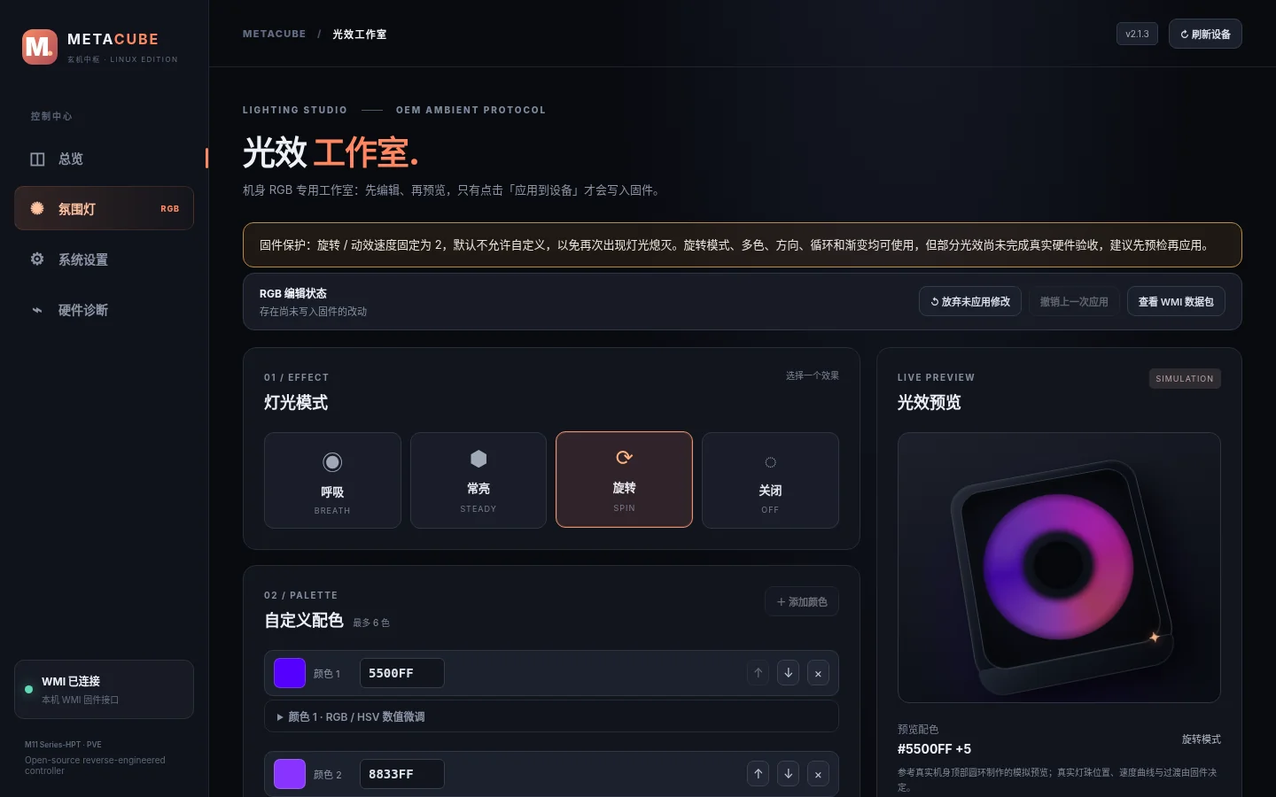
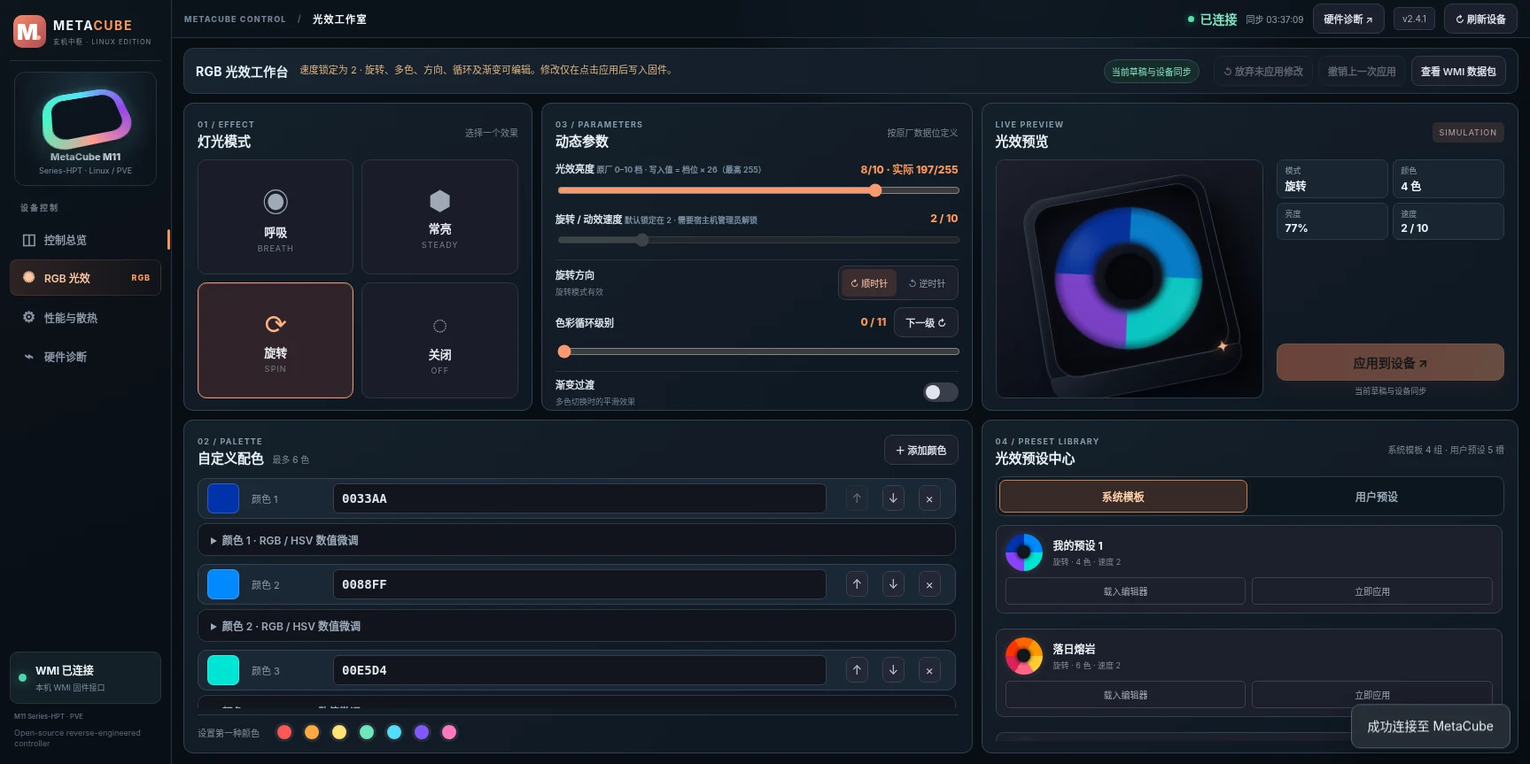
feat(web): rebuild RGB lighting as full-height modular workbench (v2.4.3)

diff --git a/web/index.html b/web/index.html
@@ -20,7 +20,7 @@
 </aside>
 <main class="content">
   <header class="topbar"><div class="crumb"><span>METACUBE CONTROL</span><span class="crumb-slash">/</span><span id="pageBreadcrumb">设备总览</span></div>
-  <div class="top-actions"><span class="live-tag top-live-status"><i></i><span id="dashConnection">等待连接</span></span><span class="console-timestamp top-sync-time" id="dashUpdated">尚未同步</span><button class="outline-button small" data-go="diagnostics">硬件诊断 ↗</button><span class="version-chip" id="versionChip">v2.4.2</span><button class="outline-button small" id="refreshButton">↻ 刷新设备</button></div></header>
+  <div class="top-actions"><span class="live-tag top-live-status"><i></i><span id="dashConnection">等待连接</span></span><span class="console-timestamp top-sync-time" id="dashUpdated">尚未同步</span><button class="outline-button small" data-go="diagnostics">硬件诊断 ↗</button><span class="version-chip" id="versionChip">v2.4.3</span><button class="outline-button small" id="refreshButton">↻ 刷新设备</button></div></header>
   <div class="page-container">
   <section id="view-dashboard" class="view active console-view">
     <div class="console-kpi-grid" aria-label="设备实时摘要">
@@ -82,46 +82,33 @@
       </div>
     </div>
   </section>
-  <section id="view-lighting" class="view">
-    <div id="rgbSafetyNotice" class="rgb-safety-notice" role="status" hidden>固件保护：旋转 / 动效速度固定为 2，默认不允许自定义，以免再次出现灯光熄灭。旋转模式、多色、方向、循环和渐变均可使用，但部分光效尚未完成真实硬件验收，建议先预检再应用。</div>
-    <div class="rgb-actions"><div><strong>RGB 编辑状态</strong><span id="draftStateLabel">当前配置已同步</span></div><div class="rgb-action-buttons"><button class="outline-button small" id="discardDraftButton">↺ 放弃未应用修改</button><button class="outline-button small" id="undoLightingButton" disabled>撤销上一次应用</button><button class="outline-button small" id="inspectPacketButton">查看 WMI 数据包</button></div></div>
-    <div class="light-layout"><div class="light-main">
-      <article class="card effect-card"><div class="card-heading"><div><span class="tiny-label">01 / EFFECT</span><h3>灯光模式</h3></div><span class="hint">选择一个效果</span></div>
-        <div class="mode-grid"><button class="mode-tile" data-mode="breath"><span class="mode-glyph">◉</span><b>呼吸</b><small>BREATH</small></button><button class="mode-tile" data-mode="steady"><span class="mode-glyph">⬢</span><b>常亮</b><small>STEADY</small></button><button class="mode-tile" data-mode="spin"><span class="mode-glyph">⟳</span><b>旋转</b><small>SPIN</small></button><button class="mode-tile" data-mode="off"><span class="mode-glyph">◌</span><b>关闭</b><small>OFF</small></button></div>
-      </article>
-      <article class="card color-card"><div class="card-heading"><div><span class="tiny-label">02 / PALETTE</span><h3>自定义配色 <span class="light-detail">最多 6 色</span></h3></div><button id="addColorButton" class="outline-button small">＋ 添加颜色</button></div><div id="colorEditor" class="color-editor"></div>
-        <div class="color-presets"><span>设置第一种颜色</span><button data-quick-color="FF5656" aria-label="红色"></button><button data-quick-color="FFA940" aria-label="橙色"></button><button data-quick-color="FFE274" aria-label="黄色"></button><button data-quick-color="6CE8BA" aria-label="绿色"></button><button data-quick-color="50DCFA" aria-label="青蓝色"></button><button data-quick-color="8057FF" aria-label="紫色"></button><button data-quick-color="FF78C2" aria-label="粉色"></button></div></article>
-      <article class="card parameters-card"><div class="card-heading"><div><span class="tiny-label">03 / PARAMETERS</span><h3>动态参数</h3></div><span class="hint">按原厂数据位定义</span></div>
-        <div class="control-group"><div class="control-line"><label for="brightnessInput">光效亮度 <small>原厂 0–10 档 · 写入值 = 档位 × 26（最高 255）</small></label><output id="brightnessValue">7 / 10</output></div><input id="brightnessInput" type="range" min="0" max="10" step="1" value="7"/></div>
-        <div class="control-group"><div class="control-line"><label for="speedInput">旋转 / 动效速度 <small>默认锁定在 2 · 需要宿主机管理员解锁</small></label><output id="speedValue">2</output></div><input id="speedInput" type="range" min="0" max="10" step="1" value="2" disabled aria-describedby="rgbSafetyNotice"/></div>
-        <div class="control-options"><div><strong>旋转方向</strong><small>旋转模式有效</small></div><div class="segmented"><button data-direction="0">↻ 顺时针</button><button data-direction="1">↺ 逆时针</button></div></div>
-        <div class="control-group"><div class="control-line"><label for="cycleInput">色彩循环级别</label><div class="cycle-action"><output id="cycleValue">0 / 11</output><button class="outline-button small" id="nextCycleButton">下一级 ↻</button></div></div><input id="cycleInput" type="range" min="0" max="11" step="1" value="0"/></div>
-        <div class="control-options last"><div><strong>渐变过渡</strong><small>多色切换时的平滑效果</small></div><label class="switch"><input type="checkbox" id="transitionInput"/><span class="switch-track"></span></label></div>
-      </article>
-    </div><div class="light-sidebar">
-      <article class="card preview-card"><div class="card-heading"><div><span class="tiny-label">LIVE PREVIEW</span><h3>光效预览</h3></div><span class="preview-pill">SIMULATION</span></div>
-        <div class="compact-preview-layout"><div class="preview-stage" id="previewStage" data-mode="breath">
-          <div class="preview-ellipse e1"></div><div class="preview-ellipse e2"></div>
-          <div class="preview-device" aria-label="MetaCube 顶部 RGB 圆环，效果仅供模拟">
-            <div class="preview-device-top">
-              <div class="preview-ring-assembly" id="previewRing" role="img" aria-label="RGB 圆环">
-                <div class="preview-ring-motion" id="previewRingMotion">
-                  <div class="preview-ring-haze"></div>
-                  <div class="preview-ring-band"></div>
-                  <div class="preview-ring-shimmer"></div>
-                </div>
-                <div class="preview-ring-hole"></div>
-              </div>
-            </div>
-            <span class="preview-device-mark">✦</span>
-          </div>
-        </div>
-        <div class="preview-commands"><div class="preview-bottom"><div><small>预览配色</small><strong id="previewColorText">#50DCFA</strong></div><span id="previewModeText">呼吸模式</span></div><p class="simulation-note">参考真实机身顶部圆环制作的模拟预览；真实灯珠位置、速度曲线与过渡由固件决定。</p><button class="primary-button full" id="applyLightingButton">应用到设备 ↗</button><p id="unsavedHint" class="unsaved">修改不会自动写入主板固件</p></div></div></article>
-      <article class="card preset-card system-presets-card"><div class="card-heading"><div><span class="tiny-label">04 / SYSTEM TEMPLATES</span><h3>系统光效模板</h3></div><span class="hint">内置 · 只读</span></div><div id="systemTemplateList" class="preset-list"><span class="secondary-note">正在载入系统模板...</span></div><p class="secondary-note">内置 4 套配色，来源于你提供的原始 JSON。可预览、载入编辑器或直接应用；不会占用和覆盖用户预设槽位。</p></article>
-      <article class="card preset-card"><div class="card-heading"><div><span class="tiny-label">05 / USER PRESETS</span><h3>用户自定义预设</h3></div><span class="hint">5 个槽位</span></div><div class="preset-toolbar"><button class="outline-button small" id="exportPresetsButton">导出 JSON</button><button class="outline-button small" id="importPresetsButton">导入 JSON</button><input type="file" id="importPresetsFile" accept="application/json,.json" hidden/></div><div id="presetList" class="preset-list"></div><p class="secondary-note">「保存草稿」不会操作硬件；「载入编辑器」只修改预览；「立即应用」才会直接写入主板。导入预设也不会写入硬件。</p></article>
-      <article class="card packet-card" id="packetCard" hidden><div class="card-heading"><div><span class="tiny-label">WMI 32-BYTE PACKET</span><h3>原厂数据包预检</h3></div><button class="outline-button small" id="closePacketButton">关闭</button></div><p class="secondary-note">仅生成预计的 SET 数据，不会发送到 EC。头部 00FB000F；保留未知保留区。</p><pre id="packetText" class="packet-data">请先编辑灯光配置</pre></article>
-    </div></div>
-  </section>
+  <section class="view" id="view-lighting"><div class="lighting-workbench-toolbar"><div class="lighting-toolbar-info"><strong class="lighting-toolbar-title">RGB 光效工作台</strong><div class="rgb-safety-notice workbench-protection" hidden="" id="rgbSafetyNotice" role="status" title="曾发生灯光停止输出、需完全断电恢复的情况。非基准速度默认锁定；高级效果尚需谨慎使用。">速度锁定为 2 · 旋转、多色、方向、循环及渐变可编辑。修改仅在点击应用后写入固件。</div><span class="lighting-draft-status" id="draftStateLabel">当前配置已同步</span></div><div class="rgb-actions workbench-actions"><div class="rgb-action-buttons"><button class="outline-button small" id="discardDraftButton">↺ 放弃未应用修改</button><button class="outline-button small" disabled="" id="undoLightingButton">撤销上一次应用</button><button class="outline-button small" id="inspectPacketButton">查看 WMI 数据包</button></div></div></div><div class="light-workbench-grid"><article class="card effect-card workbench-mode"><div class="card-heading"><div><span class="tiny-label">01 / EFFECT</span><h3>灯光模式</h3></div><span class="hint">选择一个效果</span></div>
+<div class="mode-grid"><button class="mode-tile" data-mode="breath"><span class="mode-glyph">◉</span><b>呼吸</b><small>BREATH</small></button><button class="mode-tile" data-mode="steady"><span class="mode-glyph">⬢</span><b>常亮</b><small>STEADY</small></button><button class="mode-tile" data-mode="spin"><span class="mode-glyph">⟳</span><b>旋转</b><small>SPIN</small></button><button class="mode-tile" data-mode="off"><span class="mode-glyph">◌</span><b>关闭</b><small>OFF</small></button></div>
+</article><article class="card parameters-card workbench-parameters"><div class="card-heading"><div><span class="tiny-label">03 / PARAMETERS</span><h3>动态参数</h3></div><span class="hint">按原厂数据位定义</span></div>
+<div class="control-group"><div class="control-line"><label for="brightnessInput">光效亮度 <small>原厂 0–10 档 · 写入值 = 档位 × 26（最高 255）</small></label><output id="brightnessValue">7 / 10</output></div><input id="brightnessInput" max="10" min="0" step="1" type="range" value="7"/></div>
+<div class="control-group"><div class="control-line"><label for="speedInput">旋转 / 动效速度 <small>默认锁定在 2 · 需要宿主机管理员解锁</small></label><output id="speedValue">2</output></div><input aria-describedby="rgbSafetyNotice" disabled="" id="speedInput" max="10" min="0" step="1" type="range" value="2"/></div>
+<div class="control-options"><div><strong>旋转方向</strong><small>旋转模式有效</small></div><div class="segmented"><button data-direction="0">↻ 顺时针</button><button data-direction="1">↺ 逆时针</button></div></div>
+<div class="control-group"><div class="control-line"><label for="cycleInput">色彩循环级别</label><div class="cycle-action"><output id="cycleValue">0 / 11</output><button class="outline-button small" id="nextCycleButton">下一级 ↻</button></div></div><input id="cycleInput" max="11" min="0" step="1" type="range" value="0"/></div>
+<div class="control-options last"><div><strong>渐变过渡</strong><small>多色切换时的平滑效果</small></div><label class="switch"><input id="transitionInput" type="checkbox"/><span class="switch-track"></span></label></div>
+</article><article class="card preview-card workbench-preview"><div class="card-heading"><div><span class="tiny-label">LIVE PREVIEW</span><h3>光效预览</h3></div><span class="preview-pill">SIMULATION</span></div>
+<div class="compact-preview-layout"><div class="preview-stage" data-mode="breath" id="previewStage">
+<div class="preview-ellipse e1"></div><div class="preview-ellipse e2"></div>
+<div aria-label="MetaCube 顶部 RGB 圆环，效果仅供模拟" class="preview-device">
+<div class="preview-device-top">
+<div aria-label="RGB 圆环" class="preview-ring-assembly" id="previewRing" role="img">
+<div class="preview-ring-motion" id="previewRingMotion">
+<div class="preview-ring-haze"></div>
+<div class="preview-ring-band"></div>
+<div class="preview-ring-shimmer"></div>
+</div>
+<div class="preview-ring-hole"></div>
+</div>
+</div>
+<span class="preview-device-mark">✦</span>
+</div>
+</div>
+<div class="preview-commands"><div class="preview-bottom"><div><small>预览配色</small><strong id="previewColorText">#50DCFA</strong></div><span id="previewModeText">呼吸模式</span></div><div aria-label="当前草稿参数" class="preview-parameter-summary"><div class="preview-parameter-cell"><small>模式</small><strong id="previewSummaryMode">—</strong></div><div class="preview-parameter-cell"><small>颜色</small><strong id="previewSummaryCount">—</strong></div><div class="preview-parameter-cell"><small>亮度</small><strong id="previewSummaryBrightness">—</strong></div><div class="preview-parameter-cell"><small>速度</small><strong id="previewSummarySpeed">—</strong></div></div><p class="simulation-note">参考真实机身顶部圆环制作的模拟预览；真实灯珠位置、速度曲线与过渡由固件决定。</p><button class="primary-button full" id="applyLightingButton">应用到设备 ↗</button><p class="unsaved" id="unsavedHint">修改不会自动写入主板固件</p></div></div></article><article class="card color-card workbench-palette"><div class="card-heading"><div><span class="tiny-label">02 / PALETTE</span><h3>自定义配色 <span class="light-detail">最多 6 色</span></h3></div><button class="outline-button small" id="addColorButton">＋ 添加颜色</button></div><div class="color-editor" id="colorEditor"></div>
+<div class="color-presets"><span>设置第一种颜色</span><button aria-label="红色" data-quick-color="FF5656"></button><button aria-label="橙色" data-quick-color="FFA940"></button><button aria-label="黄色" data-quick-color="FFE274"></button><button aria-label="绿色" data-quick-color="6CE8BA"></button><button aria-label="青蓝色" data-quick-color="50DCFA"></button><button aria-label="紫色" data-quick-color="8057FF"></button><button aria-label="粉色" data-quick-color="FF78C2"></button></div></article><article class="card preset-hub-card"><div class="card-heading preset-hub-heading"><div><span class="tiny-label">04 / PRESET LIBRARY</span><h3>光效预设中心</h3></div><span class="hint">系统模板 4 组 · 用户预设 5 槽</span></div><div aria-label="光效预设类型" class="preset-hub-tabs" role="tablist"><button aria-controls="lighting-preset-system" aria-selected="true" class="preset-hub-tab active" data-lighting-presets="system" role="tab" type="button">系统模板</button><button aria-controls="lighting-preset-user" aria-selected="false" class="preset-hub-tab" data-lighting-presets="user" role="tab" type="button">用户预设</button></div><article class="card preset-card system-presets-card preset-hub-pane" id="lighting-preset-system" role="tabpanel"><div class="card-heading"><div><span class="tiny-label">04 / SYSTEM TEMPLATES</span><h3>系统光效模板</h3></div><span class="hint">内置 · 只读</span></div><div class="preset-list" id="systemTemplateList"><span class="secondary-note">正在载入系统模板...</span></div><p class="secondary-note preset-hub-description">内置 4 套配色，来源于你提供的原始 JSON。可预览、载入编辑器或直接应用；不会占用和覆盖用户预设槽位。</p></article><article class="card preset-card preset-hub-pane" hidden="" id="lighting-preset-user" role="tabpanel"><div class="card-heading"><div><span class="tiny-label">05 / USER PRESETS</span><h3>用户自定义预设</h3></div><span class="hint">5 个槽位</span></div><div class="preset-toolbar"><button class="outline-button small" id="exportPresetsButton">导出 JSON</button><button class="outline-button small" id="importPresetsButton">导入 JSON</button><input accept="application/json,.json" hidden="" id="importPresetsFile" type="file"/></div><div class="preset-list" id="presetList"></div><p class="secondary-note preset-hub-description">「保存草稿」不会操作硬件；「载入编辑器」只修改预览；「立即应用」才会直接写入主板。导入预设也不会写入硬件。</p></article></article><article class="card packet-card" hidden="" id="packetCard"><div class="card-heading"><div><span class="tiny-label">WMI 32-BYTE PACKET</span><h3>原厂数据包预检</h3></div><button class="outline-button small" id="closePacketButton">关闭</button></div><p class="secondary-note">仅生成预计的 SET 数据，不会发送到 EC。头部 00FB000F；保留未知保留区。</p><pre class="packet-data" id="packetText">请先编辑灯光配置</pre></article></div></section>
   <section id="view-system" class="view">
     <div class="system-grid">
       <article class="card wide fan-monitor-card">

diff --git a/web/styles.css b/web/styles.css
@@ -592,3 +592,153 @@ html{height:100%}
   #view-dashboard .console-profile-row button > span {font-size:17px}
   #view-dashboard .console-profile-row button small {font-size:9px}
 }
+/* MetaCube v2.4.3: RGB workbench — top controls, large palette, one preset hub.
+   Only the lighting view; never changes sysfs or WMI requests. */
+@media (min-width:1101px) {
+  .page-container:has(#view-lighting.active) {
+    height:calc(100dvh - 43px);
+    min-height:0;
+    overflow:hidden;
+    padding:11px 13px 12px;
+  }
+  #view-lighting.active {
+    height:100%;min-height:0;display:flex;flex-direction:column;gap:10px;
+  }
+}
+#view-lighting .lighting-workbench-toolbar {
+  min-height:52px;display:flex;align-items:center;justify-content:space-between;
+  gap:16px;padding:8px 13px;border:1px solid #2c3948;border-radius:11px;
+  background:linear-gradient(110deg,#182330,#101923);
+}
+#view-lighting .lighting-toolbar-info {display:flex;flex:1;align-items:center;gap:12px;min-width:0}
+#view-lighting .lighting-toolbar-title {font-size:14px;letter-spacing:.02em;white-space:nowrap;color:#e8f1f9}
+#view-lighting .workbench-protection {font-size:11px;line-height:1.25;margin:0;padding:0;background:transparent;border:0;color:#e1b47b;min-width:0;overflow:hidden;text-overflow:ellipsis;white-space:nowrap}
+#view-lighting .workbench-protection[hidden]{display:none}
+#view-lighting .lighting-draft-status {font-size:10px;border:1px solid #35485a;border-radius:20px;color:#88e1bf;background:#152c2b;padding:5px 8px;white-space:nowrap;margin-left:auto}
+#view-lighting .lighting-draft-status.conflict{color:#ffb582;border-color:#c88356}
+#view-lighting .workbench-actions {padding:0;margin:0;flex:0 0 auto;border:0;background:transparent}
+#view-lighting .workbench-actions .rgb-action-buttons {display:flex;flex-wrap:nowrap;gap:6px}
+#view-lighting .workbench-actions .outline-button {white-space:nowrap;padding:8px 10px;font-size:11px}
+#view-lighting .light-workbench-grid {min-width:0;min-height:0;flex:1 1 auto;display:grid;
+   grid-template-columns:minmax(0,1.02fr) minmax(0,1.26fr) minmax(0,1.57fr);
+   grid-template-rows:minmax(0,.96fr) minmax(0,1.04fr);gap:10px;align-items:stretch}
+#view-lighting .light-workbench-grid > .card {min-width:0;min-height:0;height:100%;overflow:hidden;border:1px solid #304354;border-radius:11px;background:linear-gradient(146deg,#14202a,#101923 77%);padding:13px 15px}
+#view-lighting .light-workbench-grid > .workbench-mode{grid-column:1;grid-row:1;display:flex;flex-direction:column}
+#view-lighting .light-workbench-grid > .workbench-parameters{grid-column:2;grid-row:1;display:flex;flex-direction:column}
+#view-lighting .light-workbench-grid > .workbench-preview{grid-column:3;grid-row:1;display:flex;flex-direction:column}
+#view-lighting .light-workbench-grid > .workbench-palette{grid-column:1/3;grid-row:2;display:flex;flex-direction:column}
+#view-lighting .light-workbench-grid > .preset-hub-card{grid-column:3;grid-row:2;display:flex;flex-direction:column}
+#view-lighting .light-workbench-grid .card-heading {margin:0 0 10px;align-items:center;flex-shrink:0}
+#view-lighting .light-workbench-grid .card-heading h3 {font-size:15px;margin:3px 0 0;line-height:1.3}
+#view-lighting .light-workbench-grid .card-heading .tiny-label {font-size:9px;color:#839caf;letter-spacing:1.2px}
+#view-lighting .mode-grid{display:grid;flex:1;min-height:0;grid-template-columns:repeat(2,minmax(0,1fr));grid-template-rows:repeat(2,minmax(0,1fr));gap:9px}
+#view-lighting .mode-grid .mode-tile {min-height:0;padding:10px;gap:4px;display:flex;flex-direction:column;align-items:center;justify-content:center;border-radius:10px}
+#view-lighting .mode-grid .mode-glyph {font-size:clamp(21px,2vw,30px)}
+#view-lighting .mode-grid .mode-tile b {font-size:13px}
+#view-lighting .mode-grid .mode-tile small{font-size:9px}
+#view-lighting .workbench-parameters .control-group {padding:2px 0 6px;margin:0 0 5px}
+#view-lighting .workbench-parameters .control-line {margin-bottom:6px}
+#view-lighting .workbench-parameters .control-line label {font-size:11px;min-width:0}
+#view-lighting .workbench-parameters .control-line label small {font-size:9px;display:inline;color:#788da0}
+#view-lighting .workbench-parameters .control-options {padding:6px 0;margin:0}
+#view-lighting .workbench-parameters .control-options strong {font-size:11px}
+#view-lighting .workbench-parameters .control-options small {font-size:9px}
+#view-lighting .workbench-parameters input[type=range]{width:100%}
+#view-lighting .workbench-parameters .control-options.last {margin-top:auto}
+#view-lighting .workbench-preview .compact-preview-layout {flex:1;min-height:0;display:grid;grid-template-columns:minmax(0,1.18fr) minmax(0,1fr);gap:15px;align-items:stretch}
+#view-lighting .workbench-preview .compact-preview-layout>.preview-stage {width:100%;height:100%;min-height:0;display:grid;place-items:center;border:1px solid #2b3b4b;border-radius:10px}
+#view-lighting .workbench-preview .preview-device{width:clamp(145px,14vw,216px);height:clamp(155px,15vw,228px)}
+#view-lighting .workbench-preview .preview-commands {min-height:0;gap:10px;display:flex;justify-content:space-evenly}
+#view-lighting .workbench-preview .preview-commands .preview-bottom{display:grid;gap:5px;align-content:start}
+#view-lighting .workbench-preview .preview-bottom strong{font-size:13px}
+#view-lighting .workbench-preview .simulation-note{font-size:10px;line-height:1.5;color:#8299a9}
+#view-lighting .workbench-preview .preview-commands .primary-button{min-height:39px;justify-content:center;padding:10px}
+#view-lighting .workbench-preview .preview-commands .unsaved{font-size:10px;line-height:1.4;min-height:14px}
+#view-lighting .preview-parameter-summary{display:grid;grid-template-columns:1fr 1fr;gap:5px}
+#view-lighting .preview-parameter-cell {border:1px solid #2a3949;border-radius:7px;background:#192632;padding:8px 9px;display:grid;gap:5px}
+#view-lighting .preview-parameter-cell small {font-size:9px;color:#8a9eaf}
+#view-lighting .preview-parameter-cell strong {font-size:12px;color:#f0f5fa}
+#view-lighting .workbench-palette .color-editor{flex:1;min-height:0;max-height:none;overflow:auto;display:block;padding:2px 3px 2px 0;scrollbar-width:thin}
+#view-lighting .workbench-palette .color-row{min-height:43px;padding:5px 10px;gap:10px;margin:0 0 5px;background:#1b2835;border-color:#344354}
+#view-lighting .workbench-palette .color-row .color-label{min-width:62px;white-space:nowrap}
+#view-lighting .workbench-palette .color-row input[type=text]{min-width:110px;max-width:150px}
+#view-lighting .workbench-palette .hsv-panel{margin:0 0 9px}
+#view-lighting .workbench-palette .color-presets{flex-shrink:0;border-top:1px solid #2c3a46;margin-top:7px;padding-top:9px}
+#view-lighting .preset-hub-heading{margin-bottom:11px}
+#view-lighting .preset-hub-heading .hint{font-size:10px}
+#view-lighting .preset-hub-tabs{display:grid;grid-template-columns:1fr 1fr;flex-shrink:0;gap:6px;margin:0 0 10px;padding:3px;border:1px solid #2c3e50;background:#0c151e;border-radius:9px}
+#view-lighting .preset-hub-tab{border:1px solid transparent;background:transparent;color:#9aabba;border-radius:7px;font-size:12px;font-weight:700;padding:9px 8px}
+#view-lighting .preset-hub-tab.active{background:#372a27;color:#ffd0a9;border-color:#c27e53;box-shadow:0 0 14px #ff965117}
+#view-lighting .preset-hub-pane {flex:1;min-height:0;display:flex;flex-direction:column;overflow:hidden;padding:0!important;border:0!important;background:transparent!important;border-radius:0!important}
+#view-lighting .preset-hub-pane[hidden]{display:none!important}
+#view-lighting .preset-hub-pane>.card-heading{display:none}
+#view-lighting .preset-hub-pane .preset-list {flex:1;min-height:0;max-height:none;overflow:auto;scrollbar-width:thin;padding-right:2px}
+#view-lighting .preset-hub-pane .preset-item {padding:9px 10px;margin:0 0 8px;border:1px solid #304354;border-radius:9px;grid-template-columns:minmax(0,1fr);gap:7px}
+#view-lighting .preset-hub-pane .preset-summary {gap:12px;min-width:0}
+#view-lighting .preset-hub-pane .preset-buttons{display:flex;gap:7px;flex-wrap:nowrap}
+#view-lighting .preset-hub-pane .preset-buttons button{min-width:0;flex:1;padding:7px 5px;white-space:nowrap}
+#view-lighting .preset-hub-pane .system-template-ring {width:42px;height:42px;min-width:42px}
+#view-lighting .preset-hub-pane .preset-toolbar{flex-shrink:0;display:flex;gap:8px;margin:0 0 8px}
+#view-lighting .preset-hub-pane .preset-hub-description {display:none}
+#view-lighting .light-workbench-grid>.packet-card:not([hidden]) {position:fixed;right:18px;bottom:18px;width:min(610px,calc(100vw - 36px));height:auto;max-height:min(380px,calc(100dvh - 68px));overflow:auto;z-index:30;box-shadow:0 18px 80px #000b;border:1px solid #e6a66d}
+@media (min-width:1101px) and (max-height:820px){
+  #view-lighting .light-workbench-grid{grid-template-rows:minmax(0,.96fr) minmax(0,1.04fr)}
+  #view-lighting .light-workbench-grid > .card{padding:10px 12px}
+  #view-lighting .workbench-preview .preview-device{width:clamp(130px,11vw,174px);height:clamp(140px,12vw,187px)}
+  #view-lighting .preview-parameter-cell{padding:5px 7px;gap:3px}
+  #view-lighting .workbench-preview .simulation-note{display:none}
+  #view-lighting .workbench-parameters .control-line label small{display:none}
+  #view-lighting .workbench-parameters .control-group{padding:1px 0 3px;margin-bottom:2px}
+  #view-lighting .workbench-parameters .control-options{padding:4px 0}
+}
+@media (max-width:1100px){
+  #view-lighting .light-workbench-grid{grid-template-columns:minmax(0,1fr) minmax(0,1fr);grid-template-rows:auto;align-items:stretch;gap:10px}
+  #view-lighting .light-workbench-grid>.card{min-height:250px;height:auto}
+  #view-lighting .light-workbench-grid>.workbench-mode{grid-column:1;grid-row:1}
+  #view-lighting .light-workbench-grid>.workbench-parameters{grid-column:2;grid-row:1}
+  #view-lighting .light-workbench-grid>.workbench-preview{grid-column:1/-1;grid-row:2}
+  #view-lighting .light-workbench-grid>.workbench-palette{grid-column:1;grid-row:3;min-height:330px}
+  #view-lighting .light-workbench-grid>.preset-hub-card{grid-column:2;grid-row:3;min-height:330px}
+  #view-lighting .workbench-preview .compact-preview-layout>.preview-stage{min-height:220px}
+  #view-lighting .lighting-workbench-toolbar{flex-wrap:wrap}
+  #view-lighting .workbench-actions{margin-left:auto}
+}
+@media (max-width:680px){
+  #view-lighting .light-workbench-grid{display:flex;flex-direction:column}
+  #view-lighting .light-workbench-grid>.card{min-height:260px;height:auto}
+  #view-lighting .light-workbench-grid>.workbench-preview{min-height:310px}
+  #view-lighting .light-workbench-grid>.workbench-palette,#view-lighting .light-workbench-grid>.preset-hub-card{height:420px;min-height:420px}
+  #view-lighting .lighting-workbench-toolbar{display:flex;align-items:flex-start;padding:10px}
+  #view-lighting .lighting-toolbar-info{flex-wrap:wrap;gap:6px}
+  #view-lighting .workbench-protection{white-space:normal;flex:1 1 100%}
+  #view-lighting .workbench-actions .rgb-action-buttons{flex-wrap:wrap}
+  #view-lighting .workbench-preview .compact-preview-layout{grid-template-columns:1fr 1fr}
+  #view-lighting .workbench-palette .color-row{gap:5px}
+  #view-lighting .workbench-palette .color-row input[type=text]{min-width:75px;max-width:100px}
+}
+/* Final viewport sizing: avoid the flex item's intrinsic min-content height
+   overriding the desired 100dvh workbench height. */
+@media (min-width:1101px) {
+  .page-container:has(#view-lighting.active) {
+    flex:none!important;
+    height:calc(100dvh - 43px)!important;
+    max-height:calc(100dvh - 43px)!important;
+    min-height:0!important;
+  }
+}
+/* The summary replaces the previous duplicated mode/color header, leaving
+   room for the Apply button in the preview at 720–900px heights. */
+#view-lighting .workbench-preview .preview-commands .preview-bottom {display:none}
+#view-lighting .workbench-preview .preview-commands {justify-content:center;gap:9px}
+#view-lighting .workbench-preview .preview-parameter-summary {gap:5px}
+#view-lighting .workbench-preview .preview-parameter-cell {padding:7px 9px;gap:3px}
+#view-lighting .workbench-preview .preview-commands .primary-button {flex-shrink:0;margin-top:auto}
+#view-lighting .workbench-preview .preview-commands .unsaved {flex-shrink:0}
+#view-lighting .workbench-palette .color-row {display:grid;grid-template-columns:40px 82px minmax(120px,1fr) 2px repeat(3,31px)}
+#view-lighting .workbench-palette .color-row input[type=text]{width:100%;max-width:none;min-width:0}
+@media (min-width:1101px) and (max-height:900px) {
+ #view-lighting .workbench-preview .preview-commands .simulation-note{display:none}
+ #view-lighting .workbench-preview .preview-commands {gap:6px}
+ #view-lighting .workbench-preview .preview-parameter-cell {padding:5px 8px;gap:2px}
+ #view-lighting .workbench-preview .preview-commands .unsaved {font-size:9px}
+}

diff --git a/web/app.js b/web/app.js
@@ -192,6 +192,11 @@ function refreshDraft(){
   $('#transitionInput').checked=Boolean(M.draft.transition);
   $$('[data-direction]').forEach(el=>el.classList.toggle('active',Number(el.dataset.direction)===M.draft.direction));
   $('#previewModeText').textContent=(labels[M.draft.mode]||'未知')+'模式';
+  // Current DRAFT, never a live firmware claim.
+  $('#previewSummaryMode').textContent=labels[M.draft.mode]||'未知';
+  $('#previewSummaryCount').textContent=M.draft.colors.length+' 色';
+  $('#previewSummaryBrightness').textContent=Math.round(M.draft.brightness/255*100)+'%';
+  $('#previewSummarySpeed').textContent=String(M.draft.speed)+' / 10';
   $('#previewColorText').textContent='#'+(M.draft.colors?.[0]||'000000') + (M.draft.colors.length>1?` +${M.draft.colors.length-1}`:'');
   const conflict=M.dirty && M.live?.raw!==M.baselineRaw;
   const locked=advancedRgbLocked();
@@ -673,6 +678,18 @@ function bind(){
   $('#inspectPacketButton').addEventListener('click',inspectPacket);
   $('#closePacketButton').addEventListener('click',()=>{$('#packetCard').hidden=true;});
   $('#nextCycleButton').addEventListener('click',()=>{if(!M.draft)return;M.draft.cycle=(M.draft.cycle+1)%12;M.dirty=true;refreshDraft();});
+  // Dedicated lighting page preset hub; toggles only presentation, never device state.
+  $$('[data-lighting-presets]').forEach(button=>button.addEventListener('click',()=>{
+    const tab=button.dataset.lightingPresets;
+    $$('[data-lighting-presets]').forEach(el=>{
+      const selected=el.dataset.lightingPresets===tab;
+      el.classList.toggle('active',selected);
+      el.setAttribute('aria-selected',String(selected));
+      el.tabIndex=selected?0:-1;
+    });
+    $('#lighting-preset-system').hidden=tab!=='system';
+    $('#lighting-preset-user').hidden=tab!=='user';
+  }));
   $('#exportPresetsButton').addEventListener('click',exportPresets);
   $('#importPresetsButton').addEventListener('click',()=>$('#importPresetsFile').click());
   $('#importPresetsFile').addEventListener('change',async e=>{await importPresets(e.target.files?.[0]);e.target.value='';});

diff --git a/tests/test_rgb_workbench.py b/tests/test_rgb_workbench.py
@@ -1,0 +1,79 @@
+"""Visual + workflow regression for the RGB workbench using only mock API/WMI.
+
+Python tests and all browser operations are safe to run off-device.
+"""
+from pathlib import Path
+import tempfile
+from playwright.sync_api import sync_playwright
+from test_console_dashboard import SimDevice, SimMetrics, run_view
+from metacube_rgb.web import Api
+from metacube_rgb.core import Presets
+
+SIZES = [(1920,1080),(1727,863),(1672,941),(1440,900),(1366,768),(1280,720)]
+
+def main():
+    with tempfile.TemporaryDirectory() as folder,sync_playwright() as pw:
+        dev=SimDevice()
+        api=Api(dev,Presets(Path(folder)/'presets.json'),SimMetrics(),demo=True)
+        browser=pw.chromium.launch(headless=True,executable_path='/usr/bin/chromium',args=['--no-sandbox','--disable-dev-shm-usage','--no-proxy-server'])
+        page=browser.new_page(viewport={'width':1727,'height':863},device_scale_factor=1)
+        errors,_=run_view(page,api)
+        page.locator('[data-view="lighting"]').click()
+        page.locator('#systemTemplateList .system-template-item').first.wait_for()
+        assert page.locator('[data-lighting-presets]').count()==2
+        assert page.locator('#lighting-preset-user').is_hidden()
+        assert page.locator('#lighting-preset-system').is_visible()
+        assert page.locator('#view-lighting .mode-tile').count()==4
+        assert page.locator('#speedInput').is_disabled()
+        assert page.locator('#view-lighting .color-row').count()==4
+        assert dev.writes==0
+        for width,height in SIZES:
+            page.set_viewport_size({'width':width,'height':height})
+            page.wait_for_timeout(65)
+            layout=page.evaluate('''() => {
+                const box=s=>{const r=document.querySelector(s).getBoundingClientRect();return {top:r.top,bottom:r.bottom,left:r.left,right:r.right,w:r.width,h:r.height}};
+                const preview=box('.workbench-preview'),stage=box('#previewStage'),apply=box('#applyLightingButton'),
+                      palette=box('.workbench-palette'),hub=box('.preset-hub-card'),grid=box('.light-workbench-grid');
+                return {vh:innerHeight,scrollY:document.documentElement.scrollHeight-document.documentElement.clientHeight,
+                    scrollX:document.documentElement.scrollWidth-document.documentElement.clientWidth,
+                    preview,stage,apply,palette,hub,grid};
+            }''')
+            assert layout['scrollY']<=1,(width,height,'page scroll',layout)
+            assert layout['scrollX']<=1,(width,height,'horizontal scroll',layout)
+            assert layout['apply']['bottom'] <= layout['preview']['bottom'] - 2,(width,height,'Apply clipped',layout)
+            assert layout['apply']['top'] >= layout['preview']['top'],(width,height,'Apply displaced',layout)
+            assert layout['apply']['w']>=80,(width,height,'Apply too small',layout)
+            assert layout['palette']['bottom']<=height+1,(width,height,'palette overflow',layout)
+            assert layout['hub']['bottom']<=height+1,(width,height,'hub overflow',layout)
+            assert layout['stage']['h']>=130,(width,height,'ring preview too short',layout)
+            if width==1727 and height==863:
+                page.evaluate("document.querySelector('#toast').classList.remove('visible')")
+                page.screenshot(path='/mnt/data/metacube-rgb-v243-lighting-desktop.png',full_page=True)
+            if width==1280 and height==720:
+                page.evaluate("document.querySelector('#toast').classList.remove('visible')")
+                page.screenshot(path='/mnt/data/metacube-rgb-v243-lighting-compact.png',full_page=True)
+        page.set_viewport_size({'width':1727,'height':863})
+        # Preview is an editing draft; switching preset tabs never modifies firmware.
+        page.locator('[data-lighting-presets="user"]').click()
+        assert page.locator('#lighting-preset-user').is_visible()
+        assert page.locator('#lighting-preset-system').is_hidden()
+        assert page.locator('#presetList .preset-item').count()==5
+        assert page.locator('#systemTemplateList .system-template-item').count()==4
+        page.locator('[data-lighting-presets="system"]').click()
+        assert page.locator('#lighting-preset-system').is_visible()
+        page.locator('#colorEditor details').first.click()
+        assert page.locator('#colorEditor details').first.get_attribute('open') is not None
+        assert page.locator('#colorEditor input[type=number]').count()>=6
+        page.locator('#colorEditor input[type=text]').first.fill('55AAFF')
+        page.locator('#colorEditor input[type=text]').first.press('Tab')
+        assert page.locator('#previewSummaryCount').inner_text()=='4 色'
+        assert page.locator('#applyLightingButton').is_enabled()
+        assert dev.writes==0,'Editing must never write firmware without explicit Apply'
+        page.locator('#inspectPacketButton').click()
+        assert page.locator('#packetCard').is_visible()
+        assert page.evaluate('document.documentElement.scrollHeight-document.documentElement.clientHeight')<=1
+        assert not errors,errors
+        browser.close()
+        print('RGB workbench: six desktop sizes, preview Apply, palette edit, preset tabs, WMI inspector, no firmware write OK')
+
+if __name__=='__main__':main()

diff --git a/metacube_rgb/__init__.py b/metacube_rgb/__init__.py
@@ -1,1 +1,1 @@
-__version__ = '2.4.2'
+__version__ = '2.4.3'

diff --git a/README.md b/README.md
@@ -1,3 +1,9 @@
+# MetaCube RGB v2.4.3 — RGB workbench layout
+
+The RGB lighting page now uses a full-height two-row control workbench: lighting modes, OEM brightness/speed/direction/cycle/transition and a larger ring preview above; a wider 1–6 color/HSV editor and tabbed system/user preset center below. The preview always keeps the Apply button visible. Color editing and preset lists scroll only within their panels. Backend APIs, speed=2 safeguard, permission gates and DKMS 2.3.0 remain unchanged. `bash install.sh --web-only` on PVE.
+
+---
+
 # MetaCube RGB v2.4.2 — Restore full-height dashboard proportions
 
 A layout correction to v2.4.1: the previous approach reduced component sizes while leaving unused space below the console. The new dashboard distributes its available viewport height to the RGB preview, preset library, performance and dual-fan panels, and host/event/resource column. It restores readable heading/button sizes and round preset thumbnails. Desktop dashboard fills from the status ribbon to the bottom edge without document scrolling at 1280×720 through 1920×1080. Other pages and mobile behavior remain unchanged. No firmware/driver/API changes; `bash install.sh --web-only` on PVE.
@@ -73,11 +79,11 @@ Independent Linux/PVE WMI RGB control center for **METAPHYUNI MetaCube M11 Serie
 
 ## Screenshots / 界面截图
 
-> The overview screenshot is generated from **v2.4.2** with simulated device status and demo host metrics; other feature screenshots illustrate the still-available detailed editor and settings. No physical RGB hardware was controlled to create these images.
+> The overview screenshot is generated from **v2.4.0** with simulated device status and demo host metrics; other feature screenshots illustrate the still-available detailed editor and settings. No physical RGB hardware was controlled to create these images.
 
 ### Dashboard · Device overview
 
-![MetaCube v2.4.2 dense orange-and-cyan command console with OEM RGB ring, presets and fans](docs/screenshots/overview.webp)
+![MetaCube v2.4.0 dense orange-and-cyan command console with OEM RGB ring, presets and fans](docs/screenshots/overview.webp)
 
 [Mobile layout preview](docs/screenshots/overview-mobile.webp)
 

diff --git a/CHANGELOG.md b/CHANGELOG.md
@@ -1,3 +1,11 @@
+## v2.4.3 — 2026-11-04 · RGB full-height workbench layout
+
+- Reorganize the RGB tab into a two-row layout: mode / OEM parameters / larger ring preview on top, wide color editor / tabbed presets below. Unlike earlier attempts to force one-screen content, allocate the viewport to the modules and scroll only expanding color/HSV rows and preset lists internally.
+- Consolidate the speed safety notice, draft state, discard/undo and WMI packet inspector into one compact toolbar. The Apply button remains visible inside the preview panel, with a four-field draft summary (mode, color count, brightness, firmware speed).
+- Merge immutable system templates and five user presets into an accessible tabbed library, preserving every existing ID, preview/import/export/save/delete/apply action, backend route and firmware-write guard. Switching tabs does not write firmware.
+- Add Chromium mock-only interaction and layout tests at six desktop resolutions, including checks for a visible Apply button, color editor, WMI inspector, active preset pane, and zero WMI writes until explicit Apply.
+- No hardware protocol / EC control / DKMS modifications. Install using `bash install.sh --web-only`; WMI driver remains 2.3.0.
+
 ## v2.4.2 — 2026-11-04
 
 - Fix v2.4.1 dashboard over-compression: first viewport now fully utilized rather than stopping at ~80% height and leaving large empty space below.

diff --git a/README.zh-CN.md b/README.zh-CN.md
@@ -1,3 +1,9 @@
+# v2.4.3：RGB 光效工作台重排
+
+针对 RGB 页面模块相互挤压，重新按“上排灯光模式／动态参数／圆环预览，下排宽配色编辑／系统与用户预设 Tab”布局。保留 RGB/HSV、预设载入与应用、WMI 预检及原有固件保护；颜色和预设在各自模块内滚动，一屏内始终保留主应用按钮。仅 Web/CLI 更新，内核 DKMS 2.3.0 不变，执行 `bash install.sh --web-only`。
+
+---
+
 ## v2.4.2：修复中控台底部留白与过度缩小
 
 针对实际 1727×863 屏幕截图：不再通过缩小全部字体、控制按钮和圆环预览来强行实现「一屏」。改为让首页状态卡片、RGB 控制、预设、性能与双风扇以及右栏主机/会话事件/资源卡片共享视口高度、按比例伸展到底部，恢复可读的按钮与图标，并保护预设圆环不被拉扁。1280×720、1366×768、1727×863、1920×1080 实际 Chromium 模拟无整页滚动且无底部大面积留白。小屏手机维持正常滚动，复杂表单在需要时使用模块内部滚动。无 WMI 变更，Web-only 安装即可：
